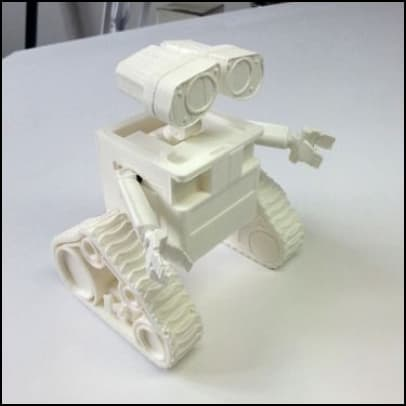
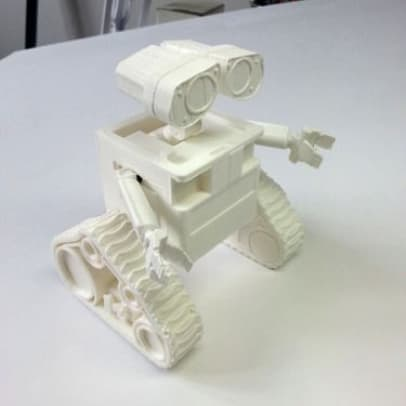
add pic-hero

Changed region(s): [[0.0, 0.0, 1.0, 1.0], [0.0887, 0.0, 0.6207, 0.0296]]

diff --git a/src/partials/main/main-hero.html b/src/partials/main/main-hero.html
@@ -29,7 +29,7 @@
               media="(max-width: 767px)"
             />
             <img
-              src="/src/images/hero/hero1-mobl-1x.jpg"
+              src="/src/images/hero/hero1-desc-1x.jpg"
               alt="3Д-модель"
               class="walley"
             />
